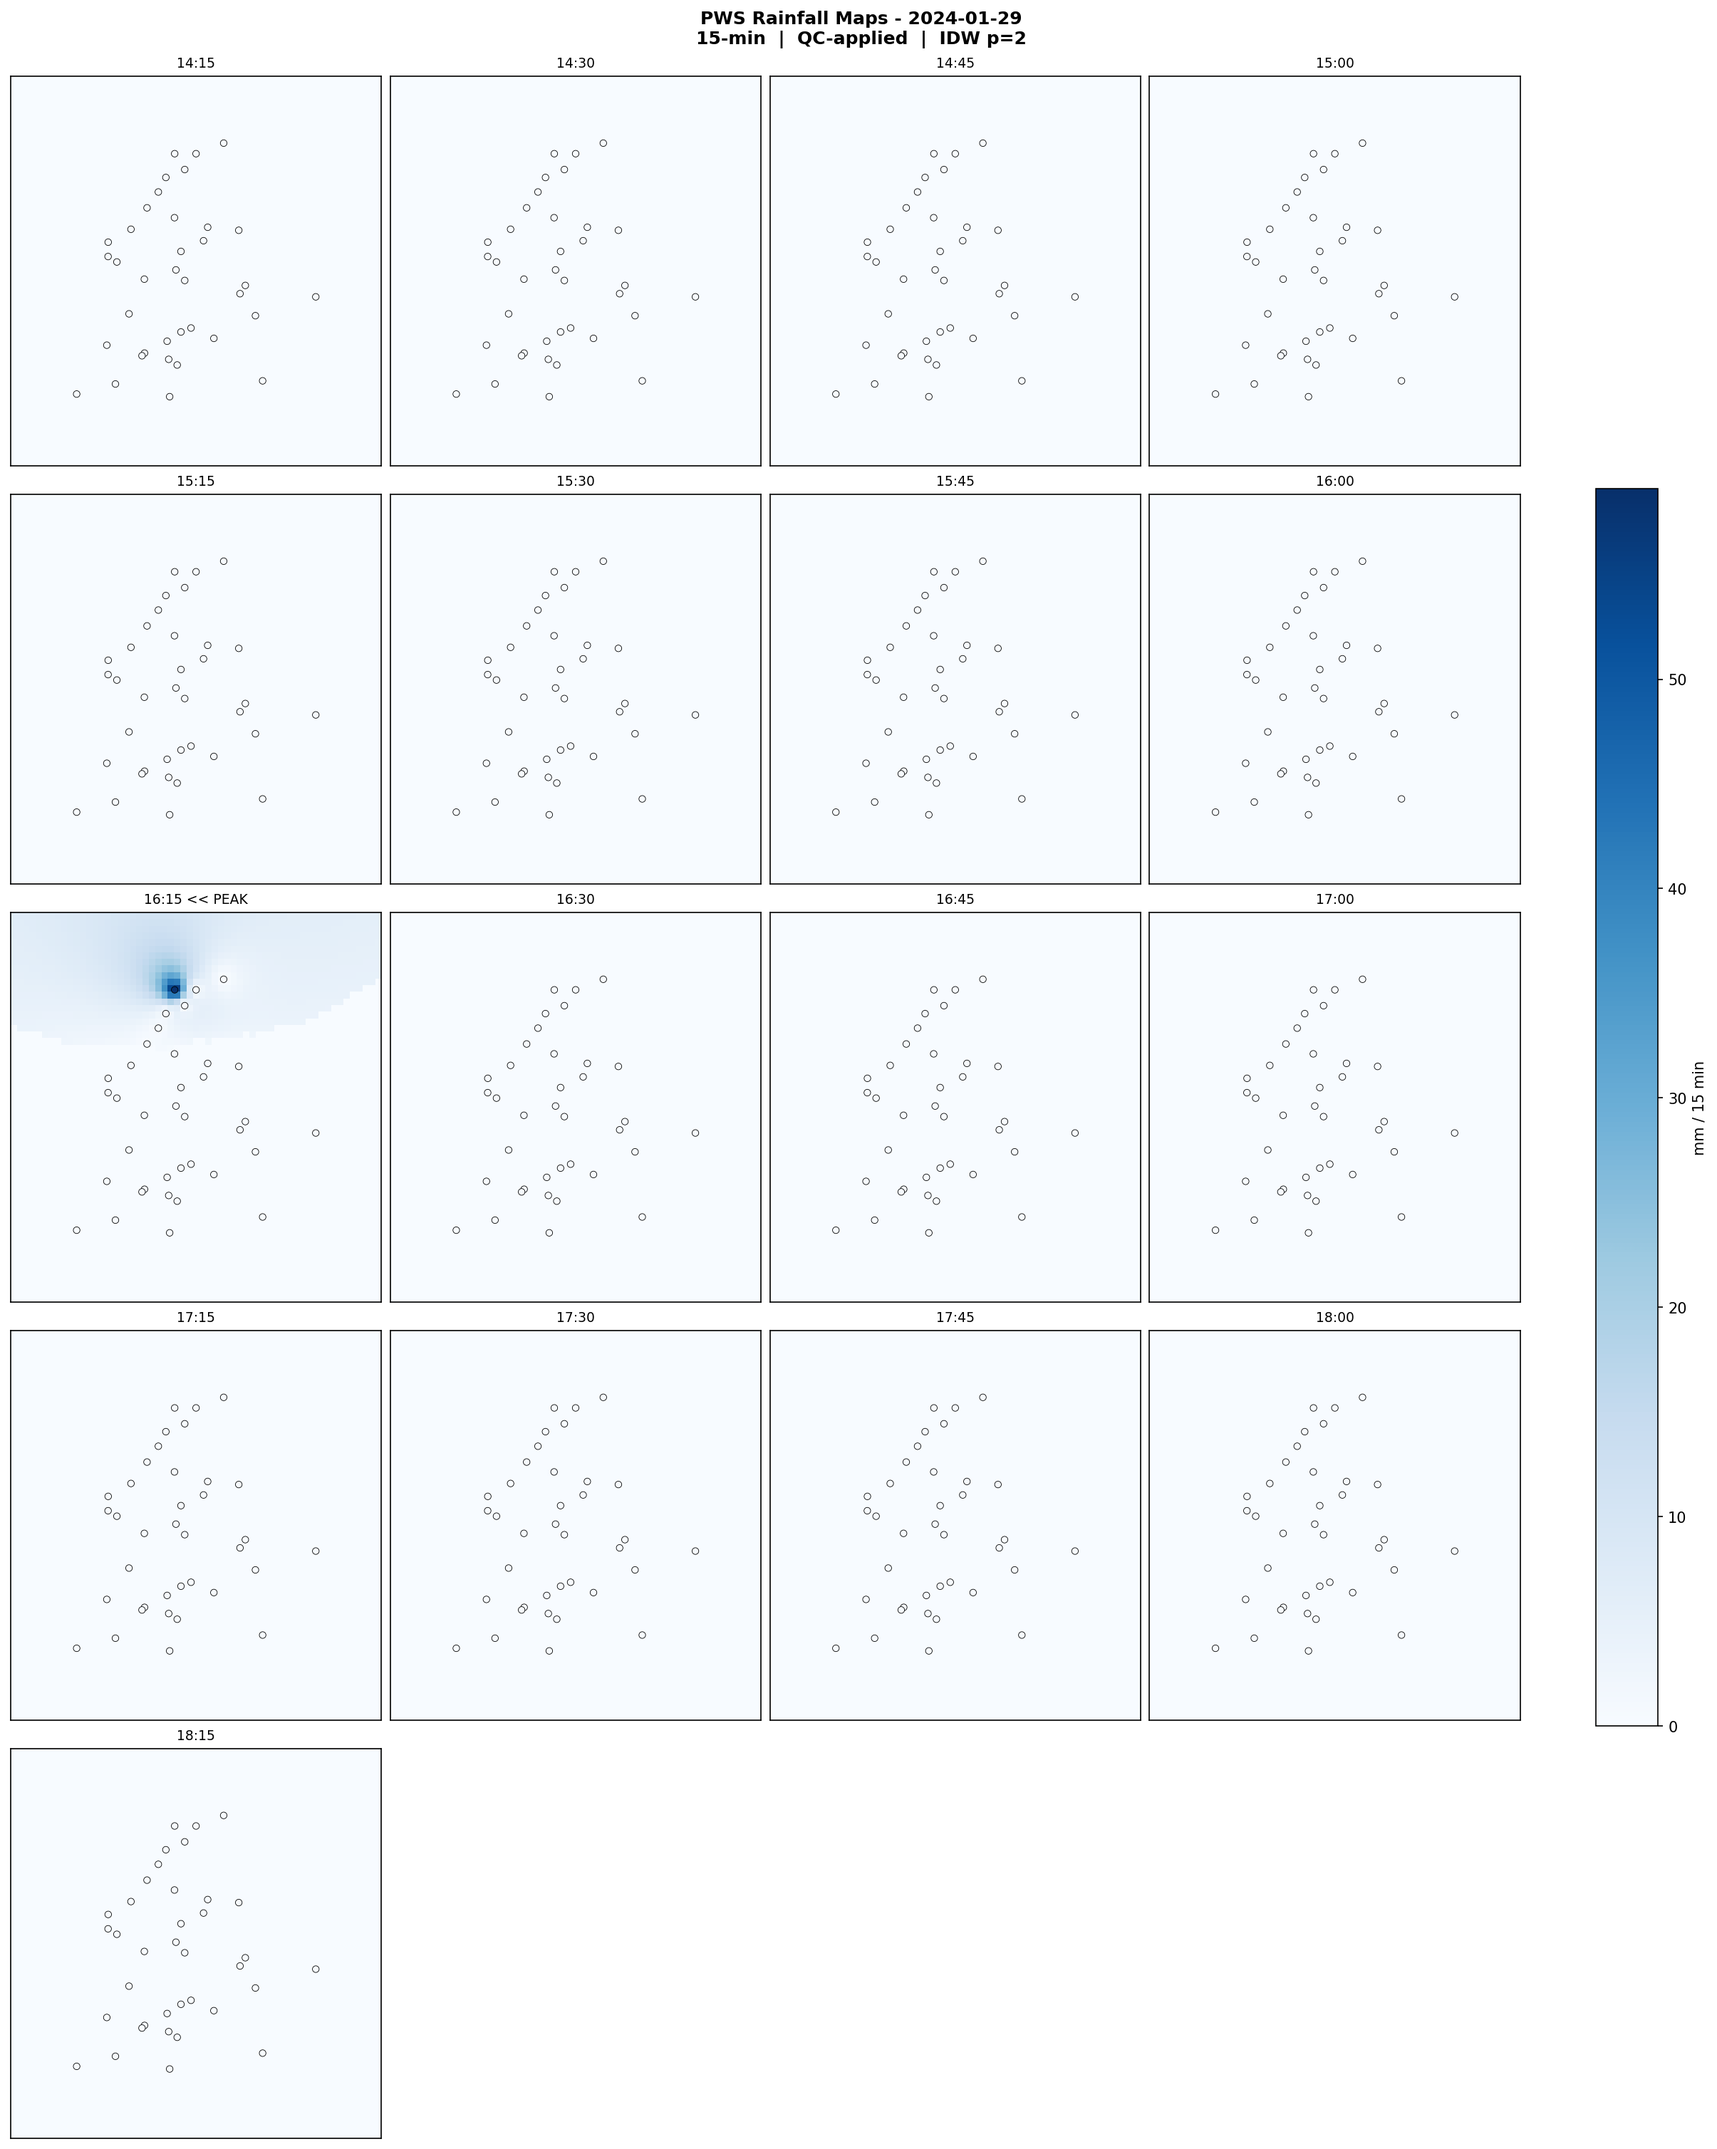
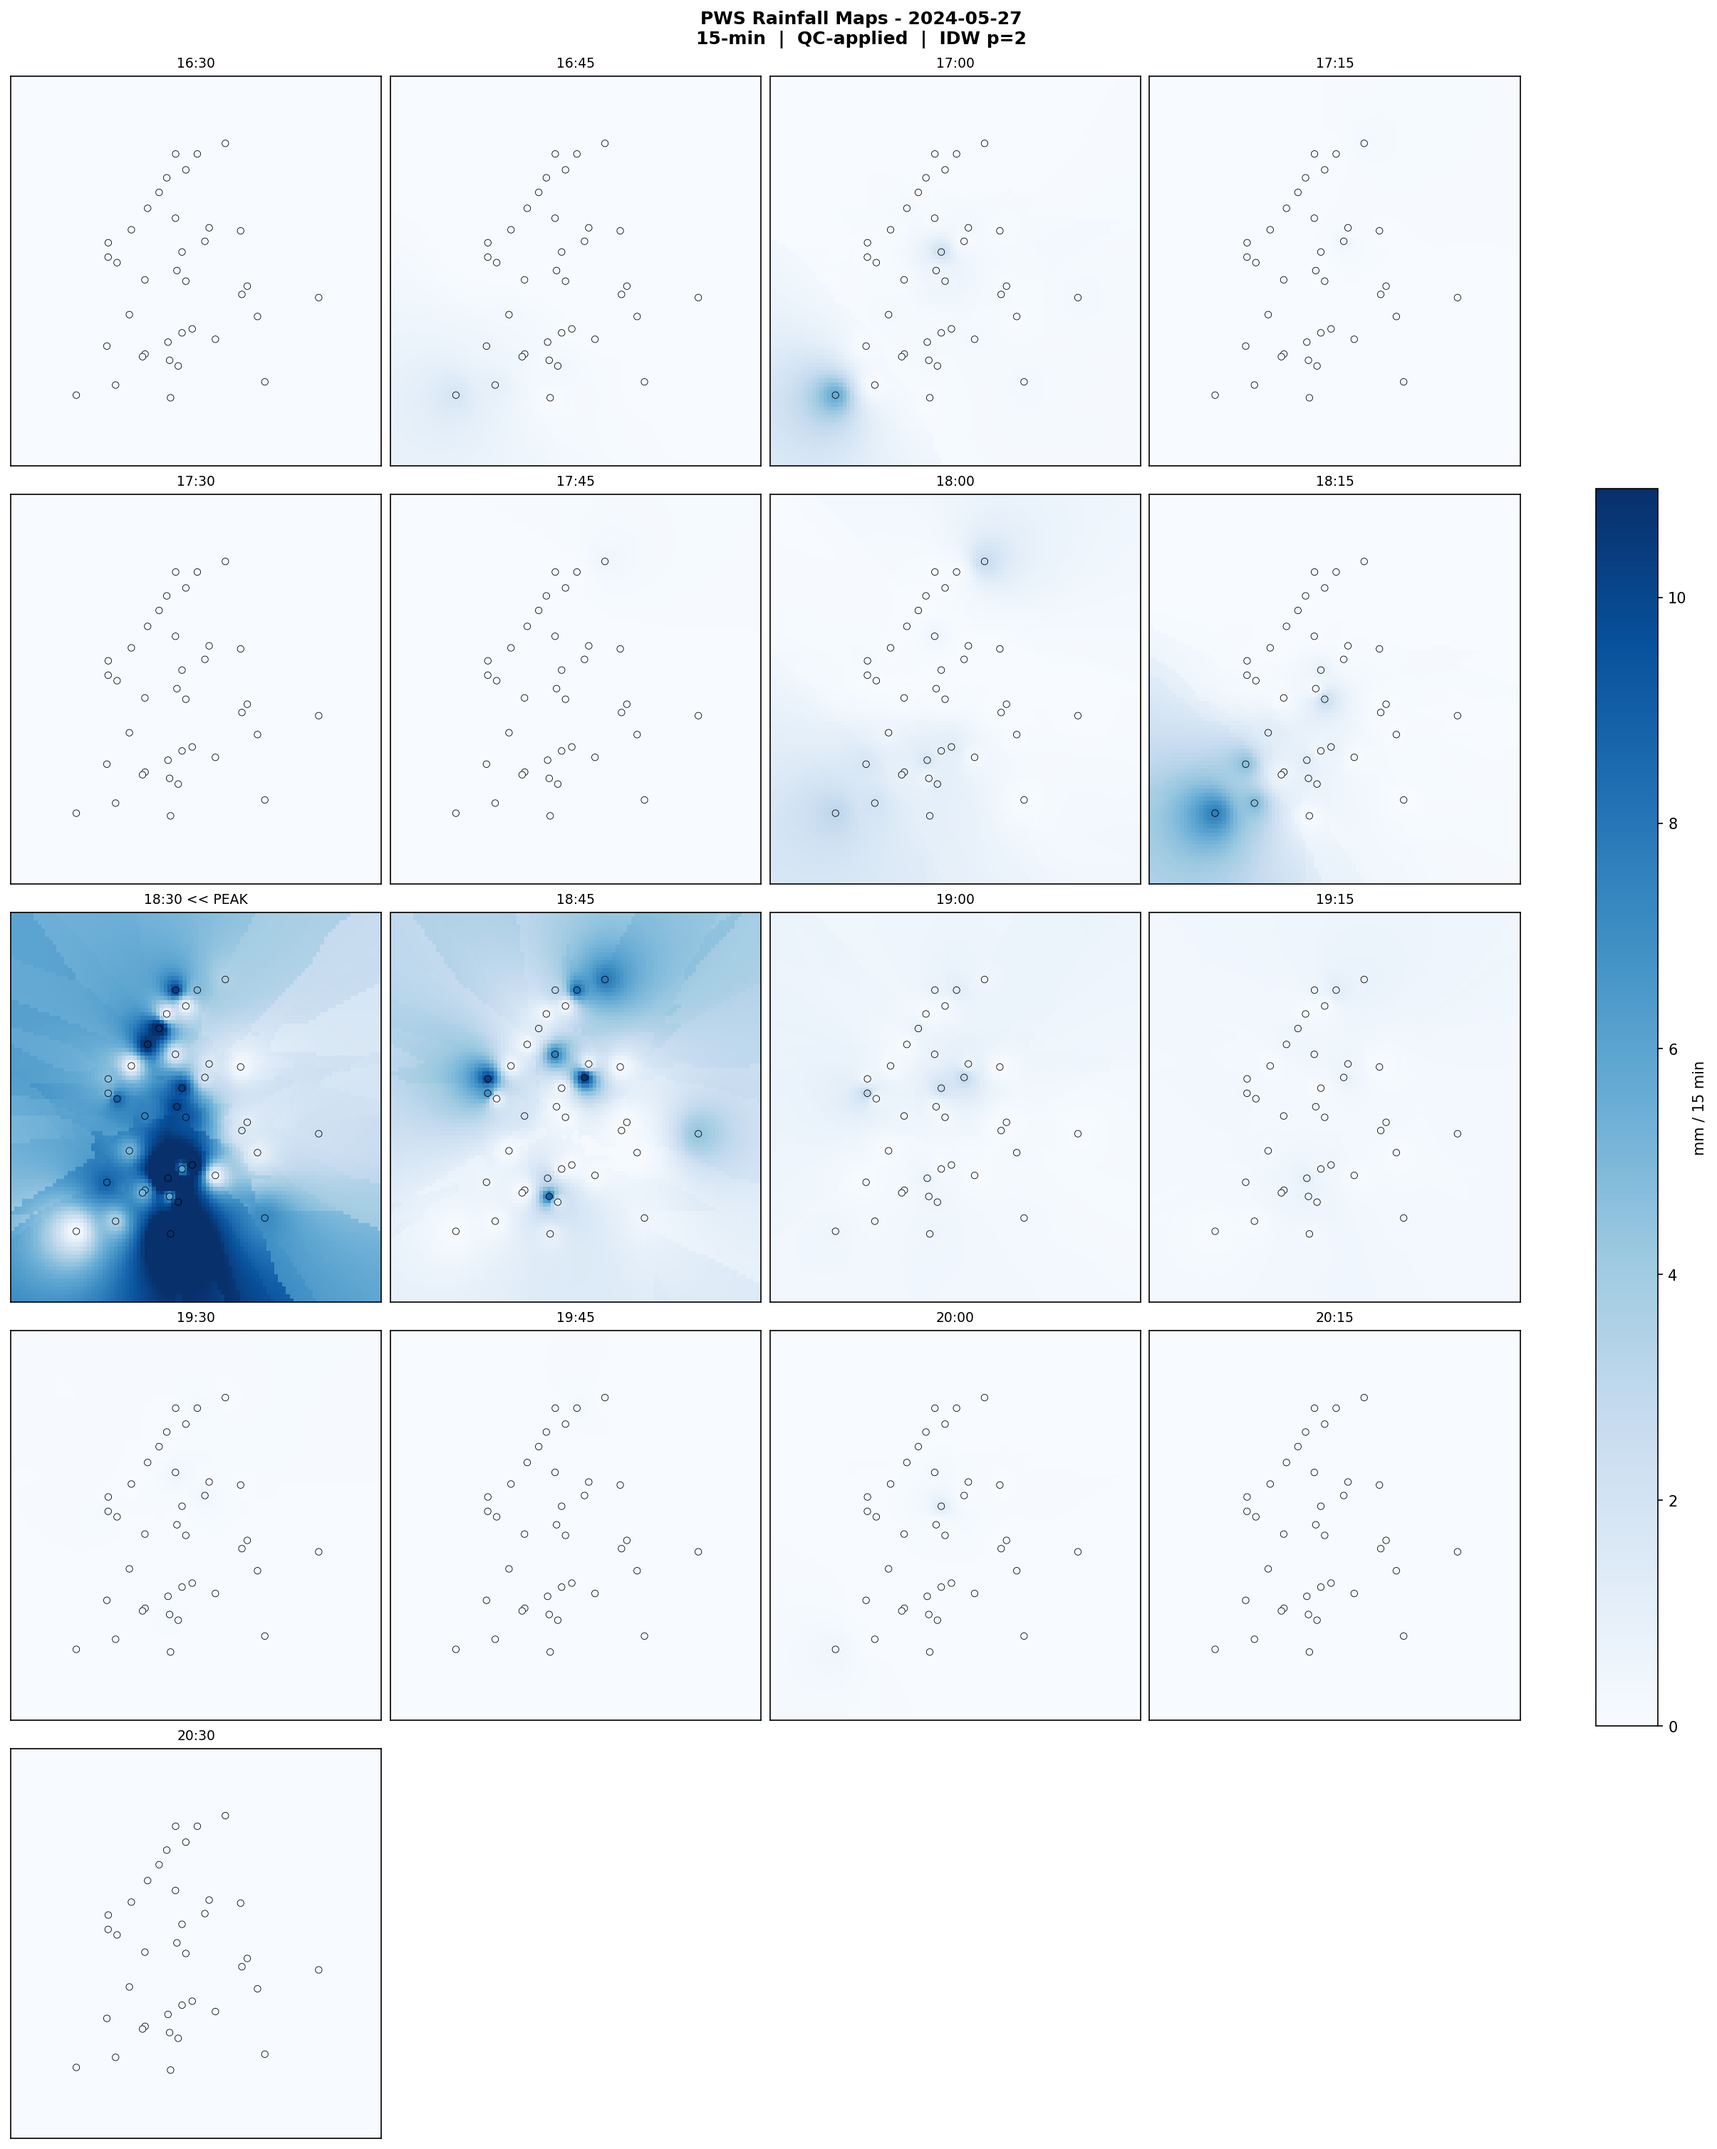
rainfall map fix

diff --git a/src/analysis/pws_rainfall_maps/run_pipeline.py b/src/analysis/pws_rainfall_maps/run_pipeline.py
@@ -26,7 +26,8 @@ Requirements
     pip install pykrige pillow   # for Kriging and GIF support
 """
 from __future__ import annotations
-
+import pandas as pd
+import numpy as np 
 import argparse
 import sys
 from pathlib import Path
@@ -70,6 +71,8 @@ def parse_args() -> argparse.Namespace:
                    help="Interpolation method (default: both)")
     p.add_argument("--no-qc",  action="store_true", help="Skip QC, use raw data")
     p.add_argument("--no-gif", action="store_true", help="Skip GIF generation")
+    p.add_argument("--event-date", type=str, default=None,
+               help="Force event peak to this date, e.g. '2024-04-23'")
     return p.parse_args()
 
 
@@ -87,8 +90,8 @@ def run(args: argparse.Namespace) -> None:
     #  1. Load 
     print("\n[1/6] Loading PWS data...")
     ds_pws_nc, pws_meta = load_pws_file(args.pws_nc, meta_path=args.pws_meta)
-    pws_data             = read_pws_groups(ds_pws_nc)
-    ds_pws_stacked       = stack_pws_to_dataset(pws_data, pws_meta, var=cfg.PWS_RAIN_VAR)
+    pws_data = read_pws_groups(ds_pws_nc)
+    ds_pws_stacked = stack_pws_to_dataset(pws_data, pws_meta, var=cfg.PWS_RAIN_VAR)
     print(f"      Stacked: {dict(ds_pws_stacked.sizes)}")
 
     #  2. QC 
@@ -120,10 +123,34 @@ def run(args: argparse.Namespace) -> None:
 
     #  4. Find event 
     print("\n[4/6] Finding peak event...")
-    peak_t, event_start, event_end, pws_event = find_peak_event(
-        pws_agg, min_stations=cfg.IDW_MIN_STATIONS, event_hours=args.event_hours)
+    # peak_t, event_start, event_end, pws_event = find_peak_event(
+    #     pws_agg, min_stations=cfg.IDW_MIN_STATIONS, event_hours=args.event_hours)
+    if args.event_date:
+        # Use specified date — find the peak window within that calendar day
+        day_start = pd.Timestamp(args.event_date)
+        day_end   = day_start + pd.Timedelta(days=1)
+        pws_day   = pws_agg.sel(time=slice(day_start, day_end))
+        if pws_day.sizes["time"] == 0:
+            print(f"  No data found for {args.event_date}, falling back to auto-detect.")
+            peak_t, event_start, event_end, pws_event = find_peak_event(
+                pws_agg, min_stations=cfg.IDW_MIN_STATIONS, event_hours=args.event_hours)
+        else:
+            valid_counts  = (~np.isnan(pws_day)).sum(dim="id")
+            network_total = pws_day.sum(dim="id", skipna=True).where(
+                valid_counts >= cfg.IDW_MIN_STATIONS)
+            peak_idx    = int(network_total.fillna(0).argmax(dim="time").values)
+            peak_t      = pd.Timestamp(pws_day.time.values[peak_idx])
+            event_start = peak_t - pd.Timedelta(hours=args.event_hours)
+            event_end   = peak_t + pd.Timedelta(hours=args.event_hours)
+            pws_event   = pws_agg.sel(time=slice(event_start, event_end))
+            print(f"Forced event date: {args.event_date}")
+            print(f"Peak window : {peak_t}")
+            print(f"Event window: {event_start} -> {event_end}  ({pws_event.sizes['time']} windows)")
+    else:
+        peak_t, event_start, event_end, pws_event = find_peak_event(
+            pws_agg, min_stations=cfg.IDW_MIN_STATIONS, event_hours=args.event_hours)
     plot_event_detection(pws_agg, peak_t, event_start, event_end,
-                         agg_minutes=args.agg_minutes, out_dir=out_dir)
+                        agg_minutes=args.agg_minutes, out_dir=out_dir)
 
     #  5. Maps 
     print("\n[5/6] Generating maps...")

diff --git a/src/analysis/pws_rainfall_maps/rainfall_maps.py b/src/analysis/pws_rainfall_maps/rainfall_maps.py
@@ -19,6 +19,7 @@ import matplotlib.pyplot as plt
 import numpy as np
 import pandas as pd
 import xarray as xr
+import matplotlib.cm as cm
 
 from idw import idw_interpolate, make_grid
 from kriging import kriging_interpolate, PYKRIGE_AVAILABLE
@@ -32,10 +33,11 @@ DEFAULT_GIF_DPI = 120
 # Helpers
 
 def _vmax(arr: np.ndarray, percentile: float = 99) -> float:
-    flat = arr.flatten()
-    pos = flat[flat > 0]
-    return max(float(np.nanpercentile(pos, percentile)) if len(pos) else 0.01, 0.01)
-
+    flat = np.asarray(arr).flatten()
+    finite = flat[np.isfinite(flat)]
+    if len(finite) == 0:
+        return 0.01
+    return max(float(np.percentile(finite, percentile)), 0.01)
 
 def _save(fig: plt.Figure, out_dir: Path | None, fname: str) -> None:
     if out_dir:
@@ -192,15 +194,29 @@ def plot_idw_vs_kriging(
         ax.scatter(pws_lons, pws_lats,
                    c=np.nan_to_num(peak_vals), cmap="Blues", vmin=0, vmax=vmax,
                    s=50, edgecolors="black", linewidths=0.6, zorder=5)
+        for i in range(len(pws_lons)):
+            if not np.isnan(peak_vals[i]) and peak_vals[i] > 0:
+                ax.annotate(f"{peak_vals[i]:.2f}",
+                            (pws_lons[i], pws_lats[i]),
+                            textcoords="offset points", xytext=(4, 4),
+                            fontsize=6, color="darkblue")
         ax.set_title(label); ax.set_xlabel("Longitude"); ax.set_ylabel("Latitude")
         ax.grid(True, alpha=0.3)
 
     # Kriging variance (uncertainty) panel
     ax = axes[2]
+    cmap_var = cm.get_cmap("YlOrRd").copy()
+    cmap_var.set_bad(color="white")
     im2 = ax.pcolormesh(grid_lon, grid_lat, grid_var,
-                         cmap="Oranges", shading="auto")
+                     cmap=cmap_var, shading="auto")
     plt.colorbar(im2, ax=ax, label="Kriging Variance", shrink=0.8)
     ax.scatter(pws_lons, pws_lats, c="red", s=30, zorder=5)
+    for i in range(len(pws_lons)):
+            if not np.isnan(peak_vals[i]) and peak_vals[i] > 0:
+                ax.annotate(f"{peak_vals[i]:.2f}",
+                            (pws_lons[i], pws_lats[i]),
+                            textcoords="offset points", xytext=(4, 4),
+                            fontsize=6, color="darkblue")
     ax.set_title("Kriging Uncertainty (Variance)")
     ax.set_xlabel("Longitude"); ax.set_ylabel("Latitude")
     ax.grid(True, alpha=0.3)

diff --git a/src/analysis/pws_rainfall_maps/kriging.py b/src/analysis/pws_rainfall_maps/kriging.py
@@ -80,7 +80,7 @@ def kriging_interpolate(
     if len(vals_v) < min_stations:
         return nan_grid, nan_grid
 
-    # Kriging requires spatial variance — skip if all values are nearly identical
+    # Kriging requires spatial variance - skip if all values are nearly identical
     # (eg all-zero windows, or a single outlier station dominating)
     if np.nanstd(vals_v) < 0.01:
         return nan_grid, nan_grid
@@ -100,22 +100,22 @@ def kriging_interpolate(
         with warnings.catch_warnings():
             warnings.simplefilter("ignore")
             ok = OrdinaryKriging(
-                lons_v, lats_v, vals_v,
+                lats_v, lons_v, vals_v, 
                 variogram_model  = variogram_model,
-                verbose          = False,
+                verbose = False,
                 enable_plotting  = False,
-                nlags            = max(4, len(vals_v) // 6),
-                coordinates_type = "euclidean",
+                nlags = max(4, len(vals_v) // 6),
+                coordinates_type = "geographic",
+                weight = True,
             )
             # ok.execute returns shape (n_lat, n_lon) when given (lon_vec, lat_vec)
-            z, ss = ok.execute("grid", grid_lon_vec, grid_lat_vec)
+            z, ss = ok.execute("grid", grid_lat_vec, grid_lon_vec)
 
         # pykrige returns numpy MaskedArrays - convert to plain ndarray.
         # Using np.ma.filled(fill_value=np.nan) ensures masked cells become NaN
         # rather than being rendered as a colour by matplotlib.
-        grid_rain = np.ma.filled(np.ma.array(z),  fill_value=np.nan)
-        grid_var  = np.ma.filled(np.ma.array(ss), fill_value=np.nan)
-
+        grid_rain = np.ma.filled(np.ma.array(z),  fill_value=np.nan).T
+        grid_var  = np.ma.filled(np.ma.array(ss), fill_value=np.nan).T
         # Rainfall cannot be negative
         grid_rain = np.clip(grid_rain, 0, None)
         grid_var  = np.clip(grid_var,  0, None)

diff --git a/src/analysis/pws_rainfall_maps/pws_loader.py b/src/analysis/pws_rainfall_maps/pws_loader.py
@@ -73,13 +73,24 @@ def stack_pws_to_dataset(
 
     rain_arr = np.full((len(station_ids), len(time_index)), np.nan)
     for i, sid in enumerate(station_ids):
-        vals = pws_dict[sid][var].to_series()
+        da = pws_dict[sid][var]
+        # Drop any non-time dimensions (id, etc.) before converting to series
+        for dim in list(da.dims):
+            if dim != "time":
+                da = da.isel({dim: 0}, drop=True)
+        vals = da.to_series()
+        vals.index = pd.DatetimeIndex(vals.index)
         vals = vals[~vals.index.duplicated(keep="first")]
         rain_arr[i] = vals.reindex(time_index).values
 
     lons, lats = [], []
     for sid in station_ids:
-        if not pws_meta.empty:
+        ds = pws_dict[sid]
+        # Full dataset has lat/lon as variables inside the group
+        if "lon" in ds.variables and "lat" in ds.variables:
+            lons.append(float(ds["lon"].values))
+            lats.append(float(ds["lat"].values))
+        elif not pws_meta.empty:
             row = pws_meta[pws_meta["Station ID"].str.upper() == sid.upper()]
             lons.append(float(row["Longitude"].values[0]) if len(row) else np.nan)
             lats.append(float(row["Latitude"].values[0])  if len(row) else np.nan)

diff --git a/src/analysis/pws_rainfall_maps/config.py b/src/analysis/pws_rainfall_maps/config.py
@@ -24,7 +24,7 @@ _REPO_ROOT = _find_repo_root(_HERE)
 DATASET_DIR = _REPO_ROOT / "dataset"
 
 # Default file locations
-PWS_NC_PATH   = DATASET_DIR / "raw" / "openmesh" / "pws_opensense_sample_jan.nc"
+PWS_NC_PATH = DATASET_DIR / "raw" / "openmesh" / "pws_wu_os.nc"
 PWS_META_PATH = DATASET_DIR / "meta" / "pws_metadata.csv"
 OUTPUT_DIR    = _REPO_ROOT / "output" / "pws_rainfall_maps"
 
@@ -34,7 +34,7 @@ PWS_RAIN_VAR = "rainfall_amount"
 QC_MAX_DIST_KM = 10.0
 QC_NINT        = 10
 QC_HI_THRES_A  = 10.0
-QC_HI_THRES_B  = 20.0
+QC_HI_THRES_B  = 50.0
 QC_N_STAT      = 1
 QC_EVAL_PERIOD = 24
 QC_MMATCH      = 0.5
@@ -42,7 +42,7 @@ QC_GAMMA       = 0.5
 
 # IDW parameters
 IDW_POWER        = 2
-IDW_GRID_RES_DEG = 0.005
+IDW_GRID_RES_DEG = 0.003
 IDW_GRID_PAD_DEG = 0.05
 IDW_MIN_STATIONS = 3
 
